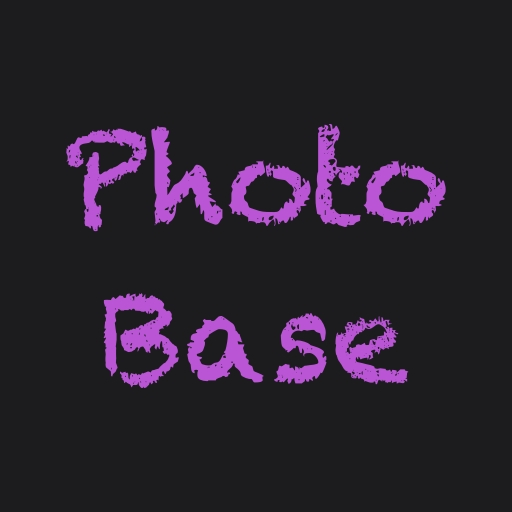
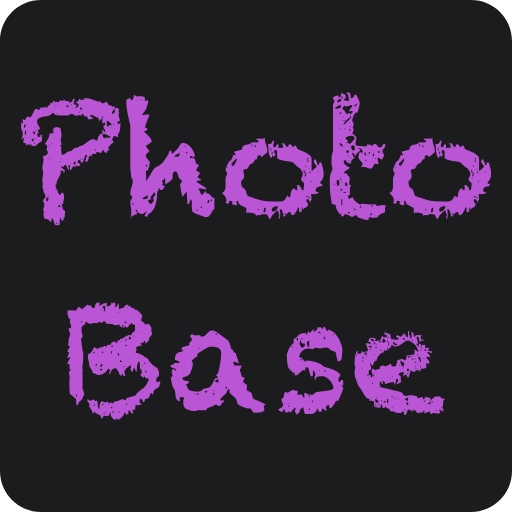
feature: make electron app buildable for mac

diff --git a/Photobase-Desktop/server.js b/Photobase-Desktop/server.js
@@ -14,6 +14,18 @@ app.use(express.urlencoded({ extended: true }));
 // Require static assets from public folder
 app.use(express.static(path.join(__dirname, 'public')));
 
+//var mostRecentDir = path.join(__dirname, '../mostRecentDir')
+//var most_recent_photo = "atom://"+`${mostRecentDir}/most_recent.jpg`;
+
+// try {
+//   if (!fs.existsSync(mostRecentDir)) {
+//     fs.mkdirSync(mostRecentDir);
+//   }
+// } catch (err) {
+//   console.error(err);
+// }
+
+
 // set the view engine to ejs
 //app.set("view engine", "ejs");
 //app.set("views", __dirname);
@@ -32,14 +44,32 @@ app.set('views', path.join(__dirname, 'views'));
 
 var photos = [];
 var online_url = "";
-var most_recent_photo = "";
 
 //Get desktop path and use it for photos directory path
 const homeDir = require("os").homedir();
-const photobaseDir = `${homeDir}/Desktop/Photobase Photos`;
+const photobaseDir = `${homeDir}/Desktop/Photobase-Photos`;
+
+//const mostRecentDir = path.join(__dirname, '../mostRecentDir');
+most_recent_photo = "";
+var most_recent_photo_name = "";
 
 // use res.render to load up an ejs view file
 app.get("/", (req, res) => {
+
+
+    //const mostRecentDir = path.join(__dirname, '../mostRecentDir');
+    //most_recent_photo = "";
+    //most_recent_photo = "atom://"+`${mostRecentDir}/most_recent.jpg`;
+
+    // try {
+    //   if (!fs.existsSync(mostRecentDir)) {
+    //     fs.mkdirSync(mostRecentDir);
+    //   }
+    // } catch (err) {
+    //   console.error(err);
+    // }
+
+  console.log("rerender");
   //Render the most recent photo to the current screen
   var tagline = "Photos";
   res.render("pages/index", {
@@ -48,6 +78,7 @@ app.get("/", (req, res) => {
     online_url: online_url,
     most_recent_photo: most_recent_photo,
   });
+
 });
 
 const handleError = (err, res) => {
@@ -67,19 +98,20 @@ const multerStorage = multer.diskStorage({
     cb(null, photobaseDir);
   },
   filename: (req, file, cb) => {
-    cb(null, `most_recent.jpg`);
+    //cb(null, `most_recent.jpg`);
     cb(null, `${file.originalname}.jpg`);
+    most_recent_photo_name = `${file.originalname}.jpg`;
   },
 });
 
 // Multer Filter
-const multerFilter = (req, file, cb) => {
-  if (file.mimetype.split("/")[1] === "jpg") {
-    cb(null, true);
-  } else {
-    cb(new Error("Not a JPG File!!"), false);
-  }
-};
+// const multerFilter = (req, file, cb) => {
+//   if (file.mimetype.split("/")[1] === "jpg") {
+//     cb(null, true);
+//   } else {
+//     cb(new Error("Not a JPG File!!"), false);
+//   }
+// };
 
 const upload = multer({
   storage: multerStorage,
@@ -92,23 +124,45 @@ app.post(
     "photodata" /* name attribute of <file> element in your form */
   ),
   (req, res) => {
-    fs.copyFile(
-      `${homeDir}/Desktop/Photobase Photos/most_recent.jpg`,
-      "public/most_recent.jpg",
-      (err) => {
-        if (err) throw err;
-        console.log("source.txt was copied to destination.txt");
-      }
-    );
+    console.log(most_recent_photo);
+    //If image copy was successful than delete image saved in desktop directory
+    // fs.unlink(
+    //   `${mostRecentDir}/most_recent.jpg`,
+    //     (err) => {
+    //     if (err) {
+    //         console.log("failed to delete local image:"+err);
+    //     } else {
+    //         console.log('successfully deleted local image');                                
+    //     }
+    //   });
 
-    //const tempPath = req.file.path;
-    console.log(req.file.filename);
-    most_recent_photo = "most_recent.jpg";
+    // fs.copyFile(
+    //   `${homeDir}/Desktop/Photobase Photos/most_recent.jpg`,
+    //   `${mostRecentDir}/most_recent.jpg`,
+    //   (err) => {
+    //     if (err) throw err;
+    //     console.log("source.txt was copied to destination.txt");
 
-    //most_recent_photo = path.join(`${homeDir}/Desktop/Photobase%20Photos`, req.file.filename);
-    //console.log(most_recent_photo);
+    //     //If image copy was successful than delete image saved in desktop directory
+    //     fs.unlink(
+    //       `${homeDir}/Desktop/Photobase Photos/most_recent.jpg`,
+    //        (err) => {
+    //        if (err) {
+    //            console.log("failed to delete local image:"+err);
+    //        } else {
+    //            console.log('successfully deleted local image');                                
+    //        }
+    //      });
+    //   }
+    // );
+    most_recent_photo = "";
+    most_recent_photo = "atom://"+`${homeDir}/Desktop/Photobase-Photos/`+ `${most_recent_photo_name}`;
+    console.log(most_recent_photo);
+
+    res.redirect('/');
   }
 );
+
 
 // about page
 app.get("/about", function (req, res) {
@@ -129,4 +183,6 @@ app.listen(8080, "0.0.0.0");
   online_url = tunnel.url.replace("https://", "");
   online_url = online_url.replace(".loca.lt", "");
   tunnel.on("close", () => {});
+  
 })();
+

diff --git a/Photobase-Desktop/main.js b/Photobase-Desktop/main.js
@@ -1,7 +1,21 @@
-const { app, BrowserWindow, ipcMain, dialog } = require("electron");
+const { app, BrowserWindow, ipcMain, dialog, protocol, webContents } = require("electron");
 const path = require("path");
 const fs = require("fs");
 const server = require("./server");
+
+//app.commandLine.appendSwitch ("disable-http-cache");
+
+app.whenReady ().then(() => {
+  protocol.registerFileProtocol('atom', (request, callback) => {
+    const url = request.url.substr(7)
+    callback({ path: path.normalize(`${url}`) })
+  })
+})
+
+protocol.registerSchemesAsPrivileged([
+  { scheme: 'atom', privileges: { bypassCSP: true } }
+])
+
 
 async function handleFileOpen() {
   const { canceled, filePaths } = await dialog.showOpenDialog();
@@ -48,15 +62,17 @@ function createWindow() {
   });
 
   if (process.platform === "darwin") {
-    app.dock.setIcon(path.join(__dirname, "public/Photobase-Icon.png"));
+    app.dock.setIcon(path.join(__dirname, "public/Photobase-Icon-512.jpg"));
   }
 
   setTimeout(() => {
     app.dock.bounce();
   }, 5000);
 
+  
   mainWindow.loadURL("http://localhost:8080");
 }
+
 
 app.whenReady().then(createWindow);
 
@@ -64,8 +80,20 @@ app.on("resize", function (e, x, y) {
   mainWindow.setSize(x, y);
 });
 
-app.on("window-all-closed", function () {
-  if (process.platform !== "darwin") {
-    app.quit();
+// app.on("window-all-closed", function () {
+//   //if (process.platform !== "darwin") {
+//     app.quit();
+//   //}
+// });
+
+app.on('window-all-closed', () => {
+  if (process.platform !== 'darwin') {
+    app.quit()
   }
-});
+})
+
+app.on('activate', () => {
+  if (BrowserWindow.getAllWindows().length === 0) {
+    createWindow()
+  }
+})
